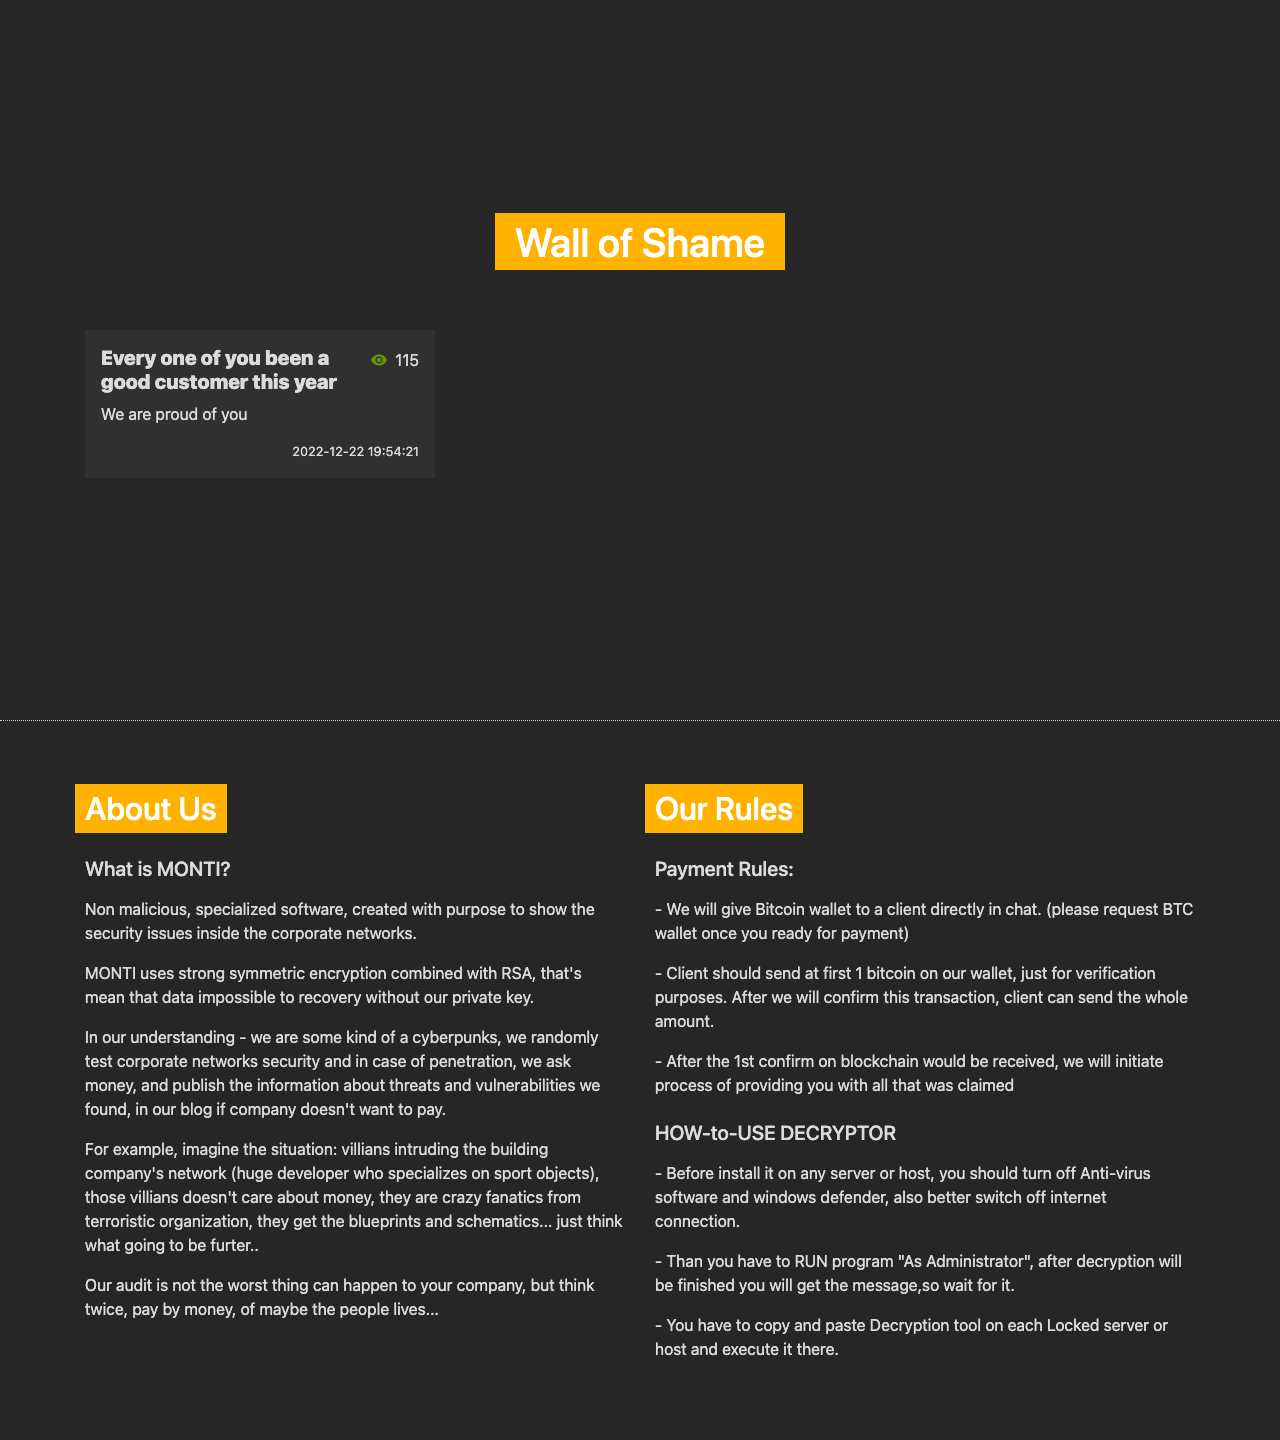
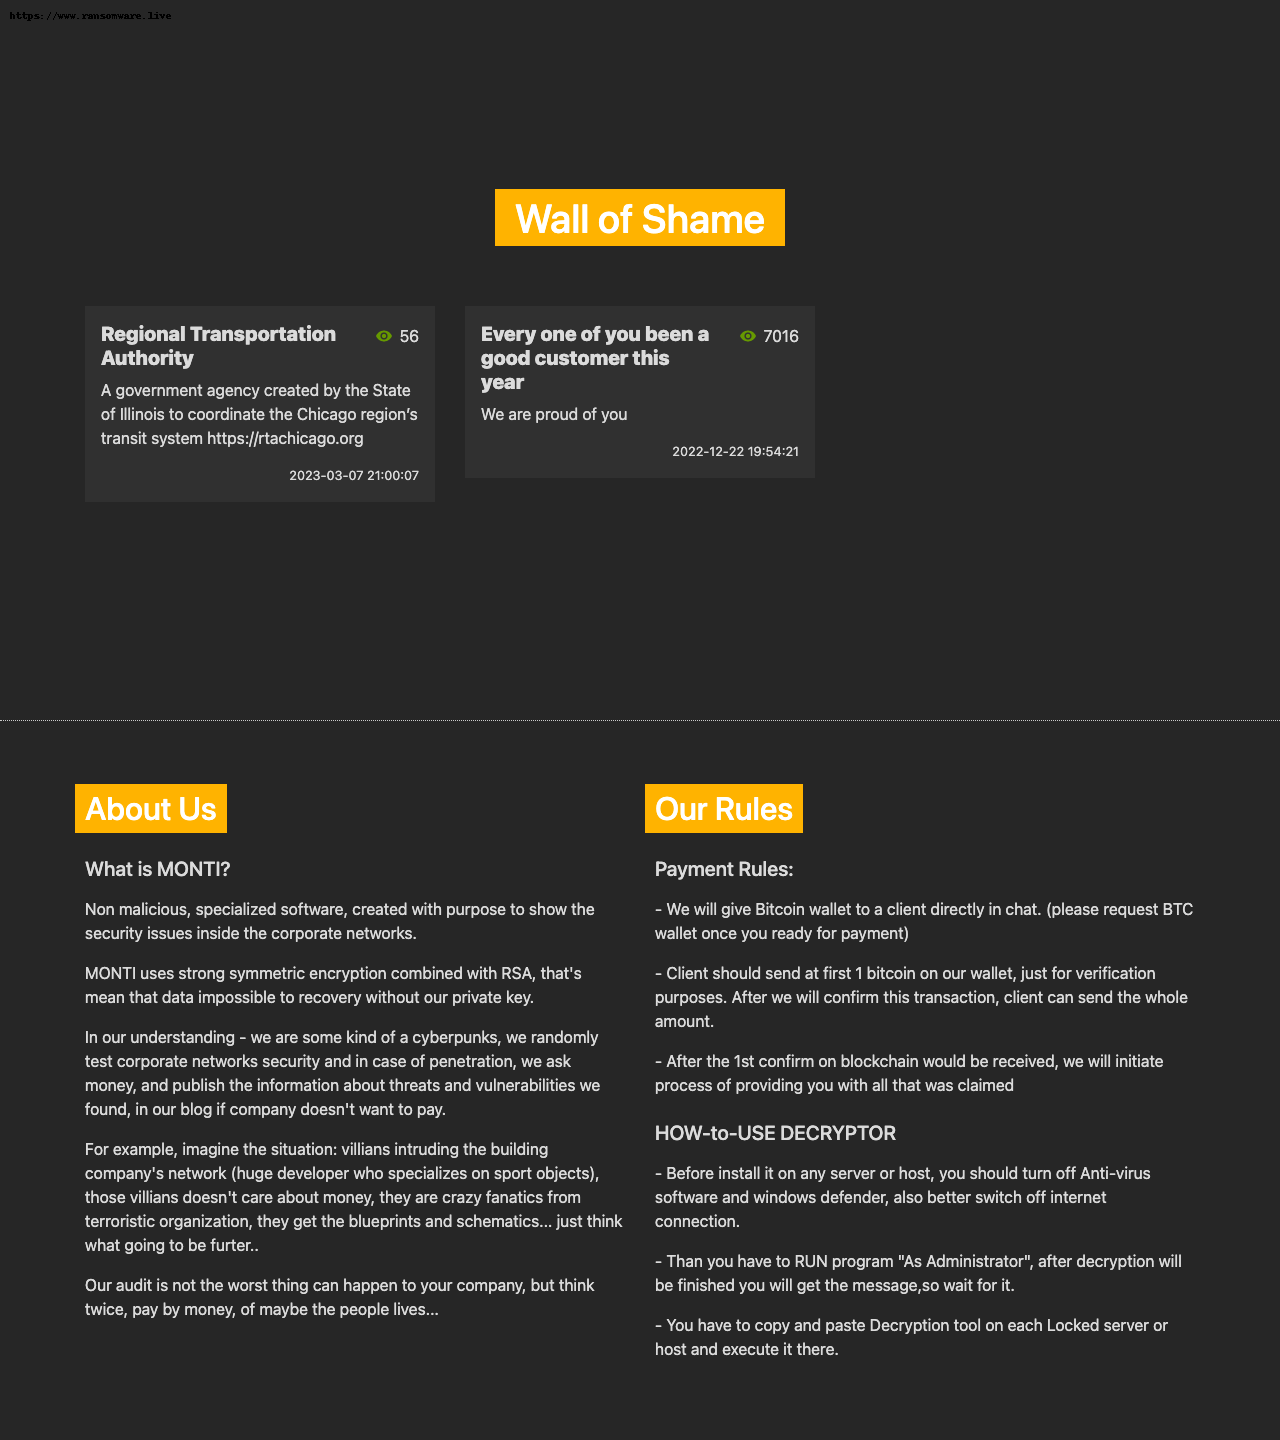
Update Monti Parser

diff --git a/source/monti-mblogci3rudehaagbryjznltdp33ojwzkq6hn2pckvjq33rycmzczpid.html b/source/monti-mblogci3rudehaagbryjznltdp33ojwzkq6hn2pckvjq33rycmzczpid.html
@@ -59,13 +59,33 @@
             <div class="row pb-5">
 
 <div class="col-lg-4 col-sm-6 mb-4">
[1 lines of base64/hex data omitted]
+                                        <div class="row">
+                                            <div class="col">
+                                                <h5 style="color:#dbdbdb">Regional Transportation Authority</h5>
+                                            </div>
+                                            <div class="col-auto">
+                                                <img src="./assets/images/eye.svg" width="16" class="mr-2 align-middle"><span style="color:#dbdbdb" class="align-middle">51</span>
+                                            </div>
+                                            <div class="col-12">
+                                                <p style="color:#dbdbdb">A government agency created by the State of Illinois to coordinate the Chicago region’s transit system https://rtachicago.org</p>
+                                            </div>
+                                            <div class="col">
+                                                <div class="read-more">Read More</div>
+                                            </div>
+                                            <div style="color:#dbdbdb" class="col-auto published">
+                                                2023-03-07 21:00:07
+                                            </div>
+                                        </div>
+                                    </a>
+                                </div><div class="col-lg-4 col-sm-6 mb-4">
[1 lines of base64/hex data omitted]
                                         <div class="row">
                                             <div class="col">
                                                 <h5 style="color:#dbdbdb">Every one of you been a good customer this year</h5>
                                             </div>
                                             <div class="col-auto">
-                                                <img src="./assets/images/eye.svg" width="16" class="mr-2 align-middle"><span style="color:#dbdbdb" class="align-middle">6983</span>
+                                                <img src="./assets/images/eye.svg" width="16" class="mr-2 align-middle"><span style="color:#dbdbdb" class="align-middle">7013</span>
                                             </div>
                                             <div class="col-12">
                                                 <p style="color:#dbdbdb">We are proud of you</p>

diff --git a/parsers/monti.py b/parsers/monti.py
@@ -1,5 +1,14 @@
 
-import os
+"""
++------------------------------+------------------+----------+
+| Description | Published Date | Victim's Website | Post URL |
++------------------------------+------------------+----------+
+|      X      |        X       |                  |          |
++------------------------------+------------------+----------+
+Rappel : def appender(post_title, group_name, description="", website="", published="", post_url=""):
+"""
+
+import os,datetime
 from bs4 import BeautifulSoup
 from sharedutils import errlog
 from parse import appender 
@@ -15,7 +24,10 @@ def main():
                 for div in divs_name:
                     title = div.find('h5').text.strip()
                     description =  div.find('p').text.strip()
-                    appender(title, 'monti', description)
+                    published = div.find('div', {'class': 'col-auto published'}).text.strip()
+                    date_obj =  datetime.datetime.strptime(published, '%Y-%m-%d %H:%M:%S')
+                    published = date_obj.strftime("%Y-%m-%d %H:%M:%S.%f")
+                    appender(title, 'monti', description,"",published )
         except:
             errlog('monti: ' + 'parsing fail')
             pass 
